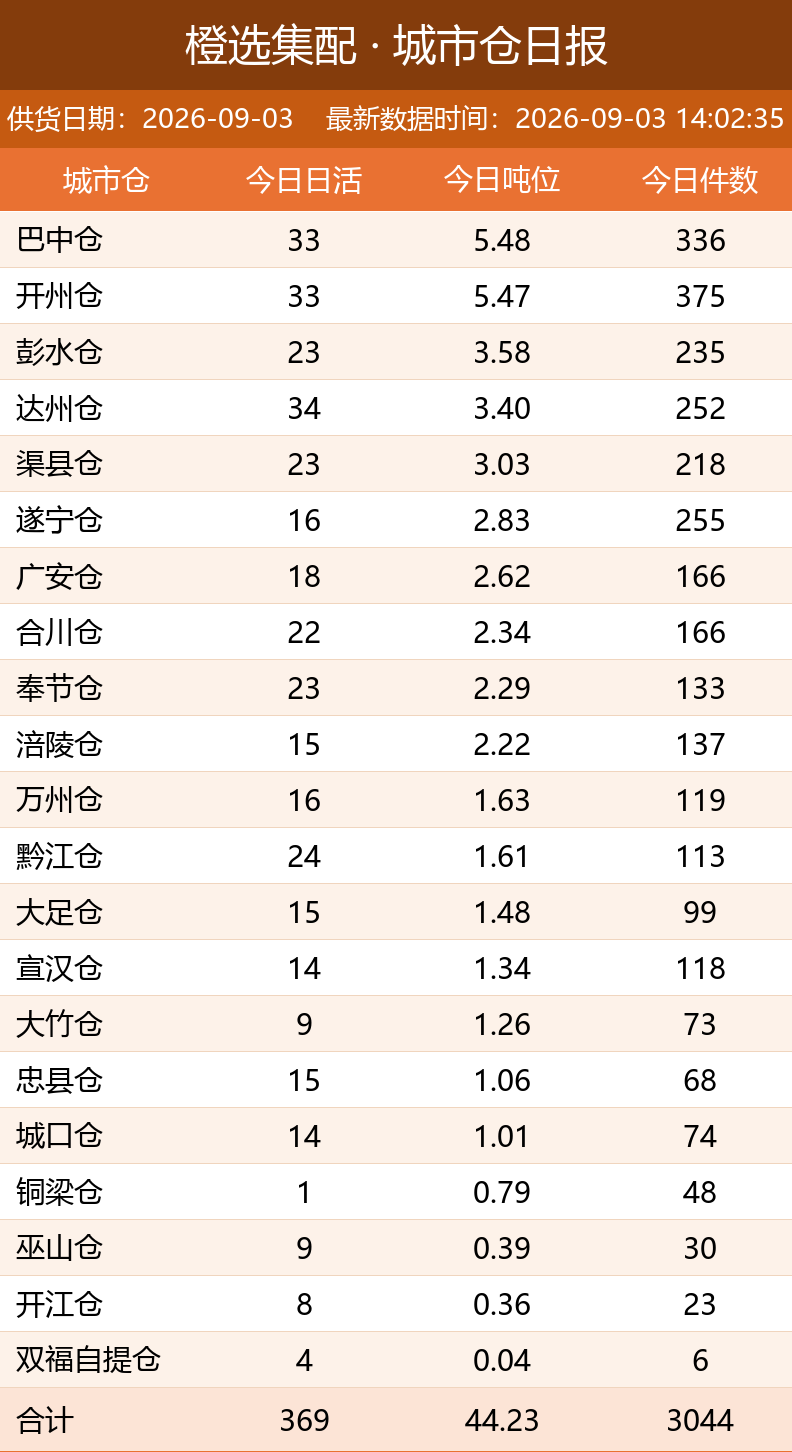
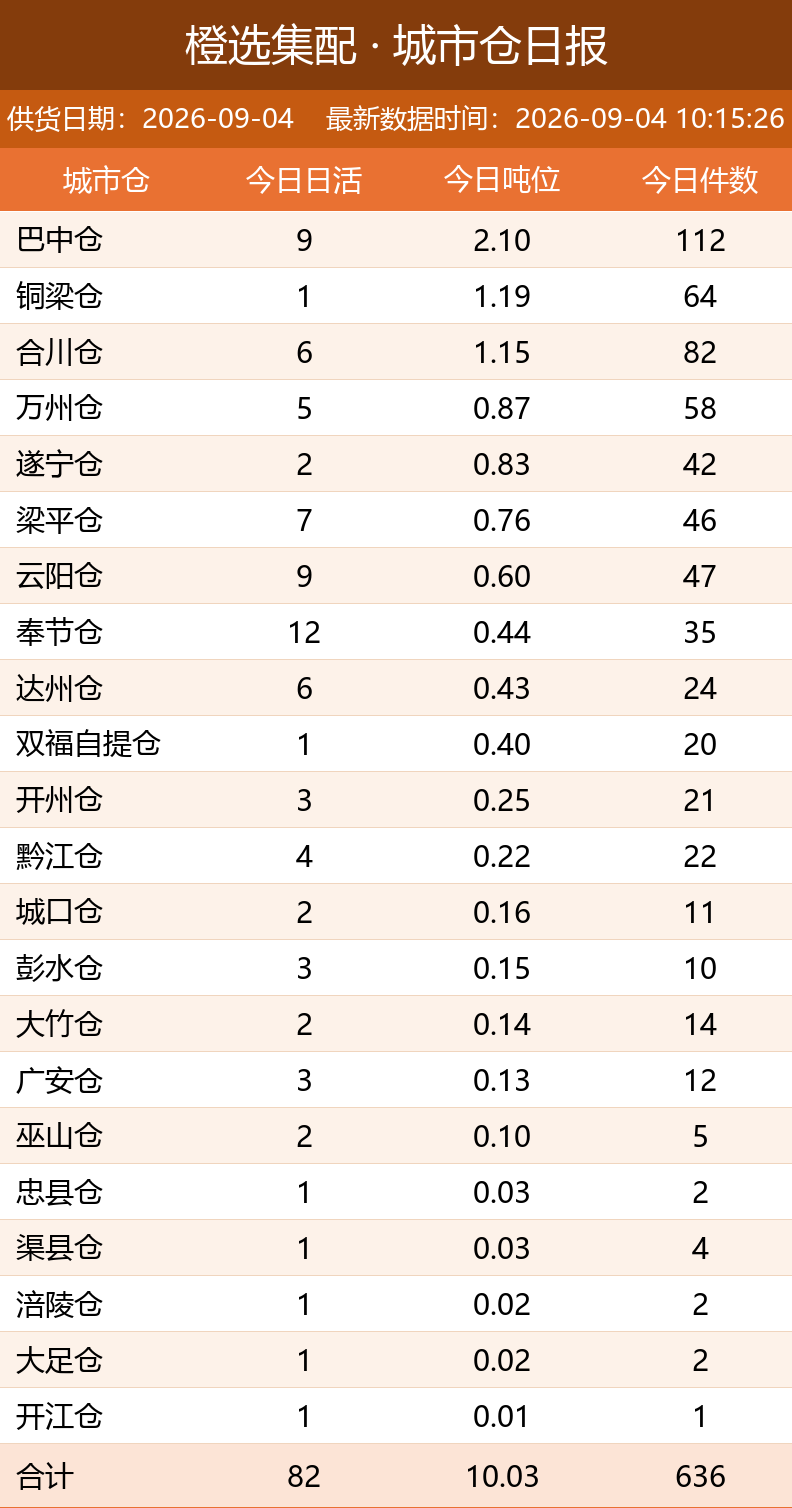
自动更新日报图片

Changed region(s): [[0.0, 0.0, 1.0, 0.9917]]

diff --git a/index.html b/index.html
@@ -11,7 +11,7 @@ img { max-width: 100%; border: 1px solid #e5e5e5; margin-bottom: 24px; display: 
 </style>
 </head>
 <body>
-<h1>橙选集配日报图片（20260903_140241）</h1>
+<h1>橙选集配日报图片（20260904_101529）</h1>
 <img src="bd_latest.png" alt="BD 日报">
 <img src="wh_latest.png" alt="城市仓日报">
 <img src="zs_latest.png" alt="招商日报">
